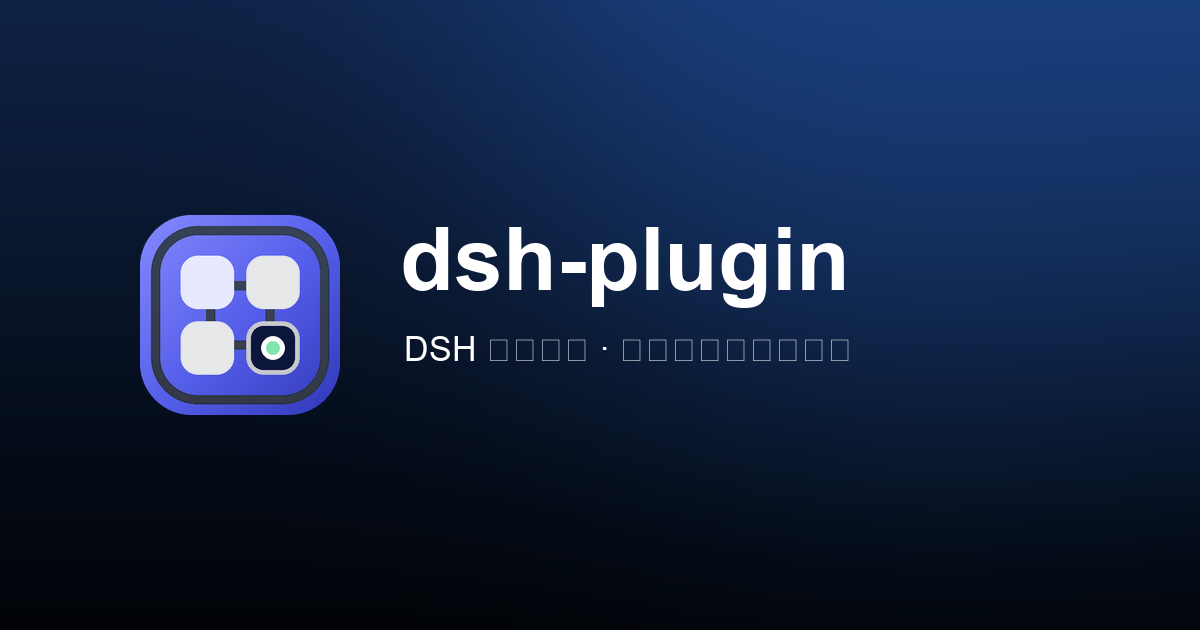
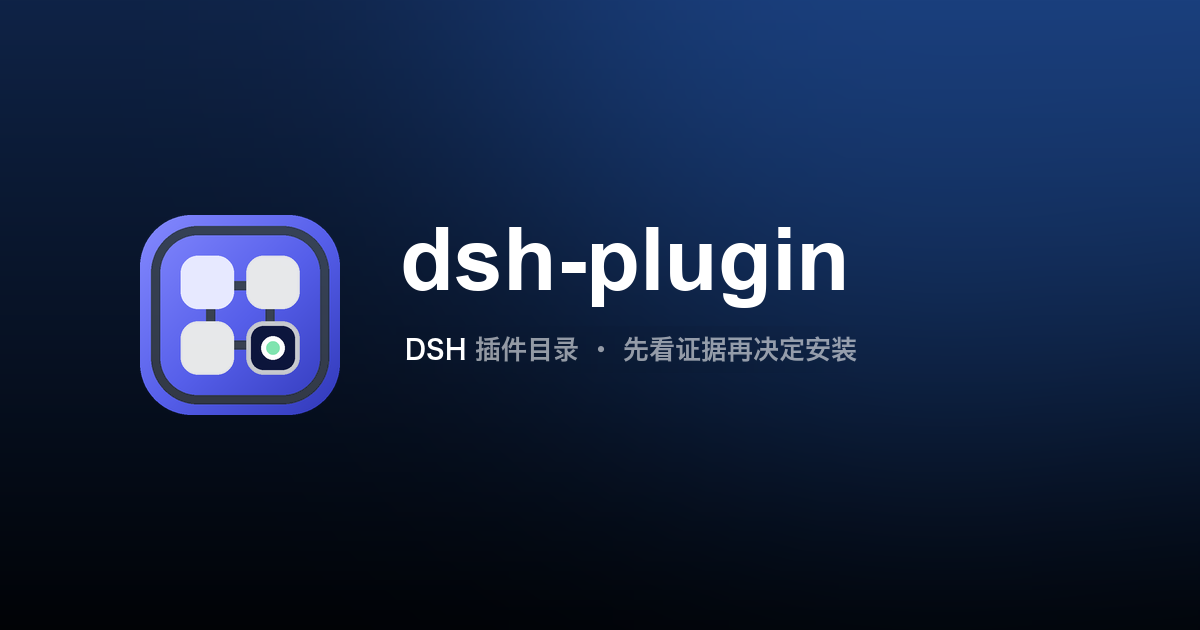
fix(og): regenerate share image subtitle with CJK font
Chinese subtitle rendered as tofu boxes because the previous
Pillow render used a Latin-only font. Kept icon/title/background
pixel-identical and redrew the subtitle with Hiragino Sans GB W6.
Adds scripts/make_og.py for reproducible regeneration.

Changed region(s): [[0.3392, 0.5127, 0.7092, 0.573]]

diff --git a/scripts/make_og.py b/scripts/make_og.py
@@ -1,0 +1,75 @@
+#!/usr/bin/env python3
+"""Regenerate public/og.png (1200x630 share image) with correct CJK rendering.
+
+Why this script exists:
+  The og image subtitle contains Chinese text. Generating it with a Latin-only
+  font makes Pillow render every CJK glyph as the font's .notdef placeholder
+  (hollow "tofu" boxes). This script keeps the icon / title / background of the
+  current og.png untouched and only redraws the subtitle line with a
+  CJK-capable font.
+
+Usage:
+  python3 scripts/make_og.py            # regenerate public/og.png in place
+  python3 scripts/make_og.py --out /tmp/og-preview.png
+
+Environment:
+  - Python 3.8+ with Pillow.
+  - A CJK font (TTF/TTC). Defaults to macOS Hiragino Sans GB; override with
+    --font /path/to/font.ttc (Pillow loads .ttc face index 2 = W6 by default,
+    use --face to change).
+"""
+
+import argparse
+from PIL import Image, ImageDraw, ImageFont
+
+DEFAULT_FONT = "/System/Library/Fonts/Hiragino Sans GB.ttc"
+FONT_FACE = 2  # Hiragino Sans GB W6
+SIZE = 26
+
+# Subtitle layout (measured from the original design):
+#   left edge x=405, cap top y=336; "DSH" in full white, Chinese at ~56% white.
+SUB_LEFT, SUB_TOP = 405, 336
+SUB_ZH = "插件目录 · 先看证据再决定安装"
+ALPHA_ZH = 143  # 56% white over the dark background
+
+
+def main() -> None:
+    ap = argparse.ArgumentParser()
+    ap.add_argument("--out", default=None, help="output path (default: public/og.png)")
+    ap.add_argument("--font", default=DEFAULT_FONT)
+    ap.add_argument("--face", type=int, default=FONT_FACE)
+    ap.add_argument("--size", type=int, default=SIZE)
+    args = ap.parse_args()
+
+    src = "public/og.png"
+    out = args.out or src
+    im = Image.open(src).convert("RGB")
+    pix = im.load()
+
+    # 1) Inpaint the old subtitle band: per-row horizontal interpolation of the
+    #    background across [X0, X1] from clean columns just outside the band.
+    X0, X1, Y0, Y1 = 396, 862, 326, 372
+    for y in range(Y0, Y1 + 1):
+        left = [pix[x, y] for x in (388, 390, 392)]
+        right = [pix[x, y] for x in (866, 868, 870)]
+        lc = tuple(sum(c[i] for c in left) // 3 for i in range(3))
+        rc = tuple(sum(c[i] for c in right) // 3 for i in range(3))
+        for x in range(X0, X1 + 1):
+            t = (x - X0) / (X1 - X0)
+            pix[x, y] = tuple(round(lc[i] * (1 - t) + rc[i] * t) for i in range(3))
+
+    # 2) Draw the new subtitle.
+    overlay = Image.new("RGBA", im.size, (0, 0, 0, 0))
+    od = ImageDraw.Draw(overlay)
+    font = ImageFont.truetype(args.font, args.size, index=args.face)
+    x = SUB_LEFT
+    od.text((x, SUB_TOP), "DSH", font=font, fill=(255, 255, 255, 255))
+    x += od.textlength("DSH", font=font) + od.textlength(" ", font=font)
+    od.text((x, SUB_TOP), SUB_ZH, font=font, fill=(255, 255, 255, ALPHA_ZH))
+    im = Image.alpha_composite(im.convert("RGBA"), overlay).convert("RGB")
+    im.save(out)
+    print("wrote", out, im.size)
+
+
+if __name__ == "__main__":
+    main()
